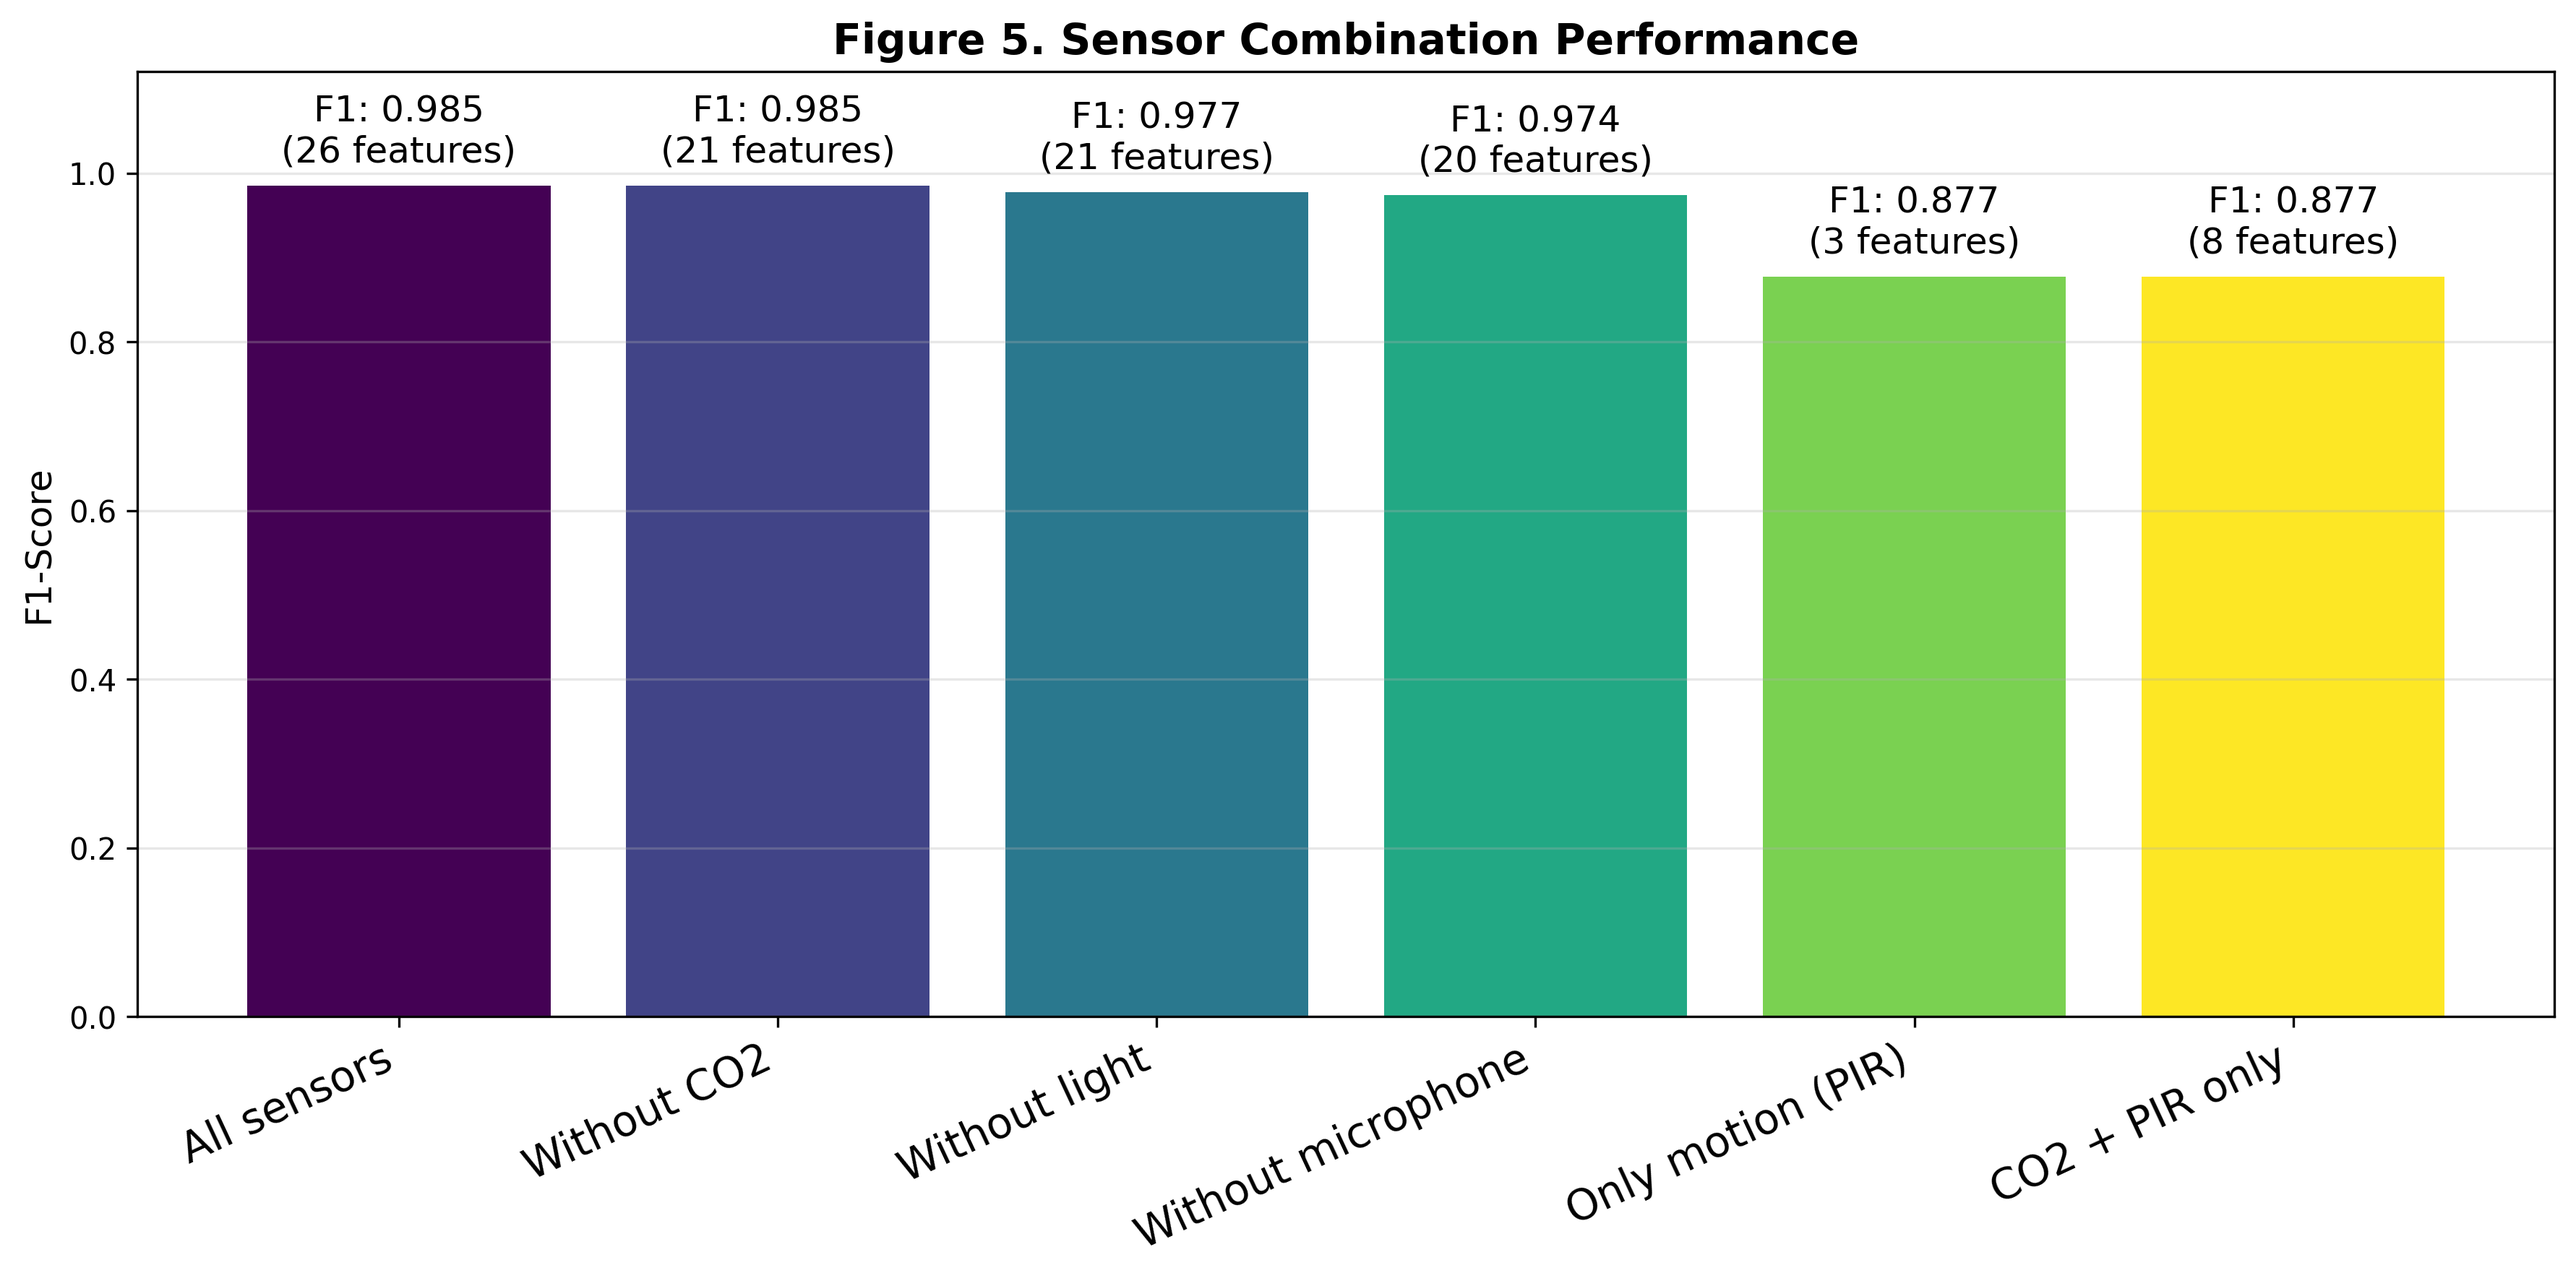
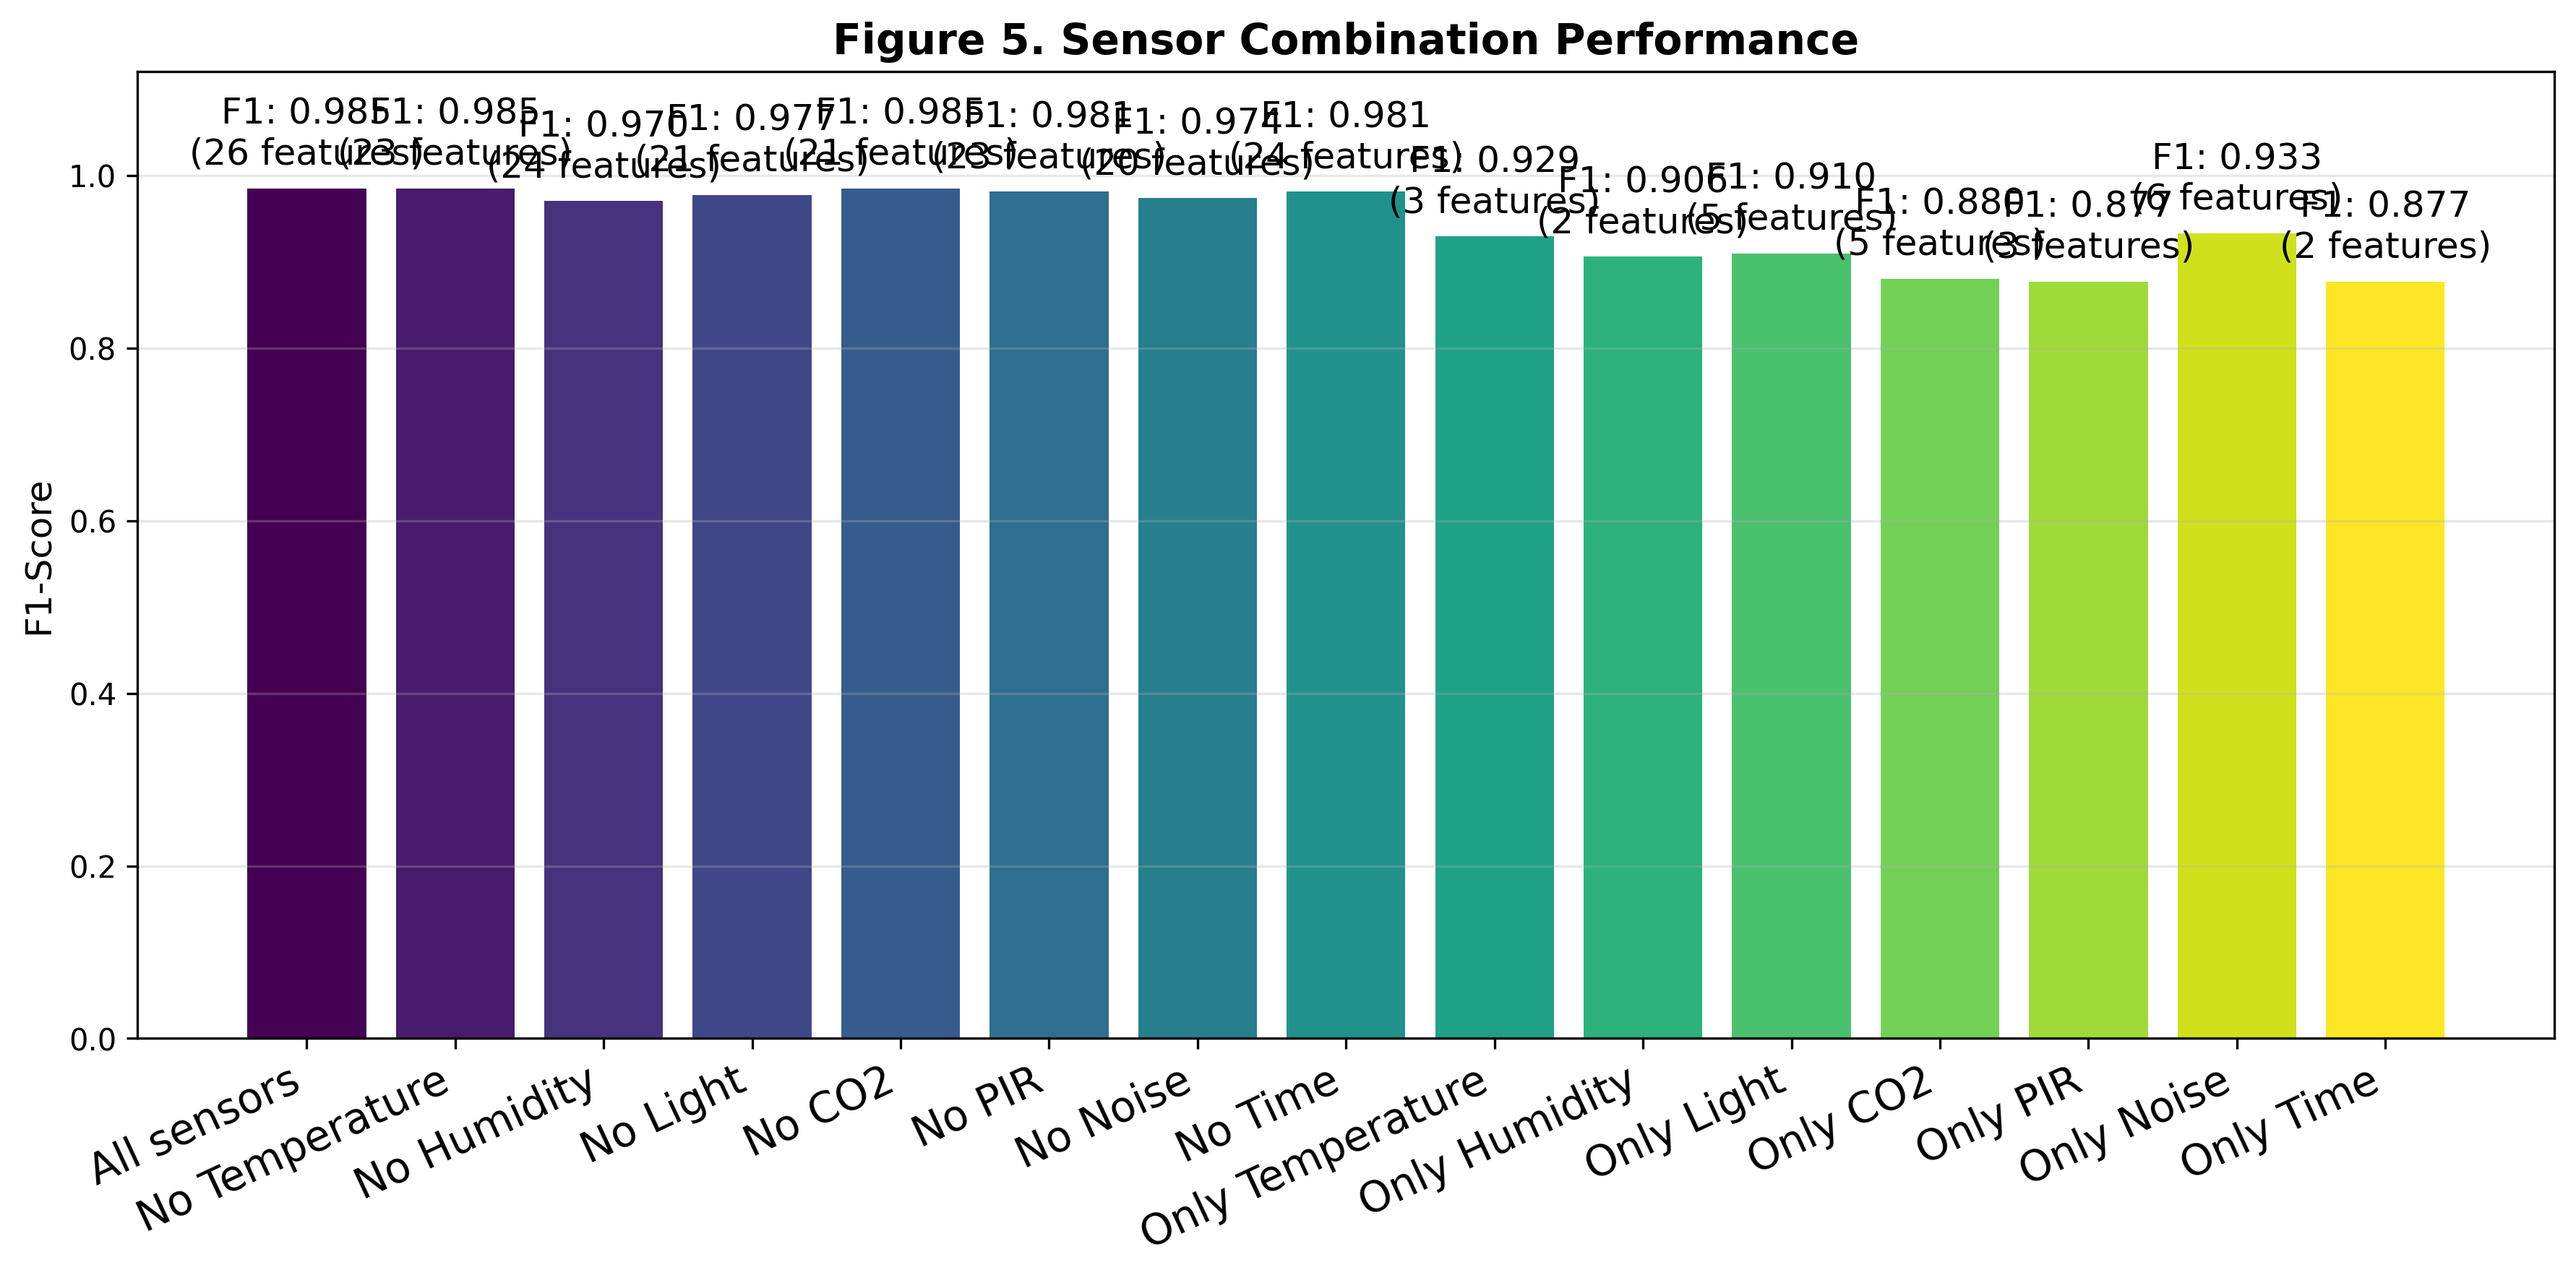
Updated ablation testing and added latex table generation

diff --git a/Project/ml_and_evaluation.py b/Project/ml_and_evaluation.py
@@ -217,6 +217,83 @@ class OccupancyMLTrainer:
         
         return self.results
 
+    def get_sensor_feature_groups(self):
+        return {
+            'Temperature': [c for c in self.X_train.columns if 'temp' in c.lower()], # Temperature, temp_mean, temp_delta
+            'Humidity': [c for c in self.X_train.columns if 'humidity' in c.lower()], # Humidity, humidity_mean
+            'Light': [c for c in self.X_train.columns if 'light' in c.lower()], # Light, light_mean, light_variance, light_std, light_detla
+            'CO2': [c for c in self.X_train.columns if 'co2' in c.lower()], # CO2, co2_mean, co2_delta, co2_delta_mean, co2_variance
+            'PIR': [c for c in self.X_train.columns if 'pir' in c.lower()], # PIR, pir_sum, pir_max
+            'Noise': [c for c in self.X_train.columns if ('noise' in c.lower() or 'mic' in c.lower())], # Microphone, noise_mean, noise_variance, noise_std, noise_max, noise_min
+            'Time': [c for c in self.X_train.columns if ('hour' in c.lower() or 'day' in c.lower())] # hour, day_of_week
+        }
+
+    def run_sensor_ablation(self, best_model_name, best_model, output_csv):
+        """Compare model performance with different sensor exclusion combinations"""
+
+        sensor_groups = self.get_sensor_feature_groups()
+        experiments={
+            'All sensors': list(self.X_train.columns),  # Use all available features
+            
+            'No Temperature': [c for c in self.X_train.columns if c not in sensor_groups['Temperature']],
+            'No Humidity': [c for c in self.X_train.columns if c not in sensor_groups['Humidity']],
+            'No Light': [c for c in self.X_train.columns if c not in sensor_groups['Light']],
+            'No CO2': [c for c in self.X_train.columns if c not in sensor_groups['CO2']],
+            'No PIR': [c for c in self.X_train.columns if c not in sensor_groups['PIR']],
+            'No Noise': [c for c  in self.X_train.columns if c not in sensor_groups['Noise']],
+            'No Time': [c for c in self.X_train.columns if c not in sensor_groups['Time']],
+
+            'Only Temperature': [c for c in self.X_train.columns if c in sensor_groups['Temperature']],
+            'Only Humidity': [c for c in self.X_train.columns if c in sensor_groups['Humidity']],
+            'Only Light': [c for c in self.X_train.columns if c in sensor_groups['Light']],
+            'Only CO2': [c for c in self.X_train.columns if c in sensor_groups['CO2']],
+            'Only PIR': [c for c in self.X_train.columns if c in sensor_groups['PIR']],
+            'Only Noise': [c for c  in self.X_train.columns if c in sensor_groups['Noise']],
+            'Only Time': [c for c in self.X_train.columns if c  in sensor_groups['Time']],
+        }
+
+        results=[]
+        print(f"\nTesting different sensor combinations for {best_model_name}:")
+
+        for combo_name, features in experiments.items():
+            if not features:  # Check if feature list is empty
+                continue  # Skip this combination if no features
+
+            print(f"Testing: {combo_name} ({len(features)} features)")
+
+            X_train_subset = self.X_train[features]  # Select subset of training features
+            X_test_subset = self.X_test[features]  # Select subset of test features
+
+            # Clone model so original best_model is untouched
+            model = clone(best_model)
+
+            if best_model_name in ['Logistic Regression', 'KNN']:  # Check if model requires scaled features
+                scaler = StandardScaler()  # Create new scaler instance
+                X_train_subset = scaler.fit_transform(X_train_subset)  # Fit and transform training subset
+                X_test_subset = scaler.transform(X_test_subset)  # Transform test subset
+
+            model.fit(X_train_subset, self.y_train)  # Train cloned model on feature subset
+            y_pred = model.predict(X_test_subset)  # Predict on test subset
+
+            metrics = {  # Create dictionary of metrics for this combination
+                'sensor_configuration': combo_name,
+                'num_features': len(features),  # Store number of features used
+                'accuracy': accuracy_score(self.y_test, y_pred),  # Calculate accuracy
+                'precision': precision_score(self.y_test, y_pred),  # Calculate precision
+                'recall': recall_score(self.y_test, y_pred),  # Calculate recall
+                'f1_score': f1_score(self.y_test, y_pred)  # Calculate F1-score
+            }
+
+            self.sensor_combinations[combo_name] = metrics  # Store metrics for this combination
+            results.append(metrics)
+
+            print(f"Name: {combo_name:15s} -> Accuracy: {metrics['accuracy']:.4f} | F1: {metrics['f1_score']:.4f}") 
+
+        df=pd.DataFrame(results)
+        df.to_csv(output_csv, index=False)
+        print(f"Saved ablation results to {output_csv}")
+        return df # self.sensor_combinations
+
     def compare_sensor_combinations(self, best_model_name, best_model): 
         """Compare model performance with different sensor combinations""" 
 
@@ -538,7 +615,17 @@ if __name__ == "__main__":
     # Step 6: Select best model
     best_model_name, best_model = trainer.select_best_model()
     # Step 7: Compare sensor combinations with best model
-    trainer.compare_sensor_combinations(best_model_name, best_model)
+    # trainer.compare_sensor_combinations(best_model_name, best_model)
+    df=trainer.run_sensor_ablation(best_model_name, best_model, "ablation1.csv")
+    latex_table = df.to_latex(
+        index=False,
+        float_format="%.4f",
+        column_format="lccccc",
+        caption="Sensor Ablation Study Using Fixed Random Forest Model",
+        label="tab:sensor_ablation",
+        bold_rows=False,
+        longtable=False
+    )
     # Step 8: Save models
     trainer.save_models(output_dir='trained_models')
     # Step 9: Generate performance report
@@ -546,4 +633,5 @@ if __name__ == "__main__":
     # Step 10: Generate visualizations
     trainer.visualize_results(best_model_name, best_model, output_dir='ml_results')
     
-    print("\nML training and evaluation is done.")
+    print("\nML training and evaluation is done.\n")
+    # print(latex_table) # this is for producing a nice table later
